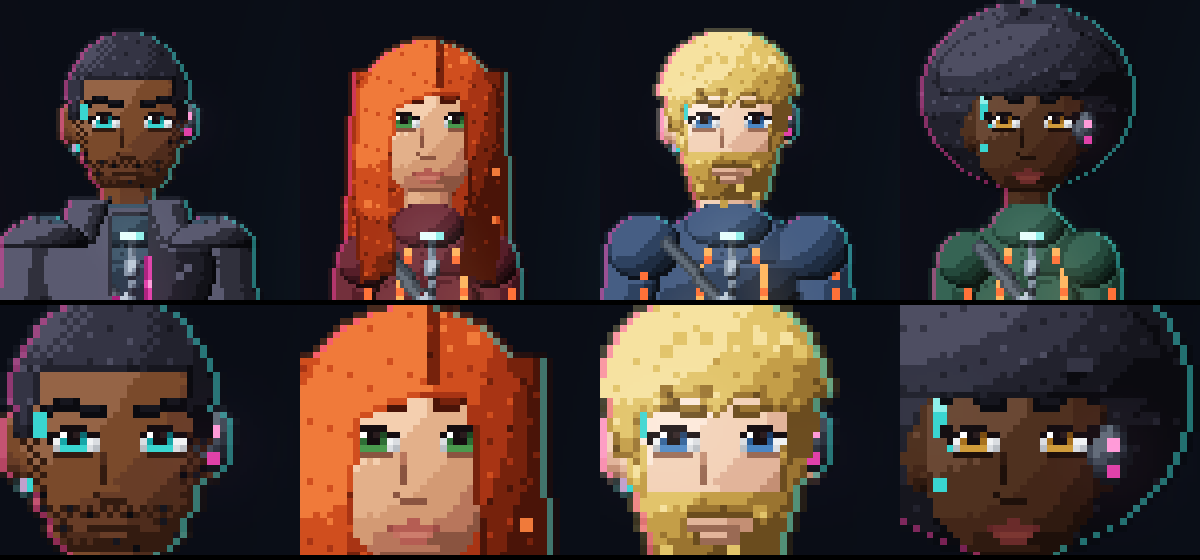
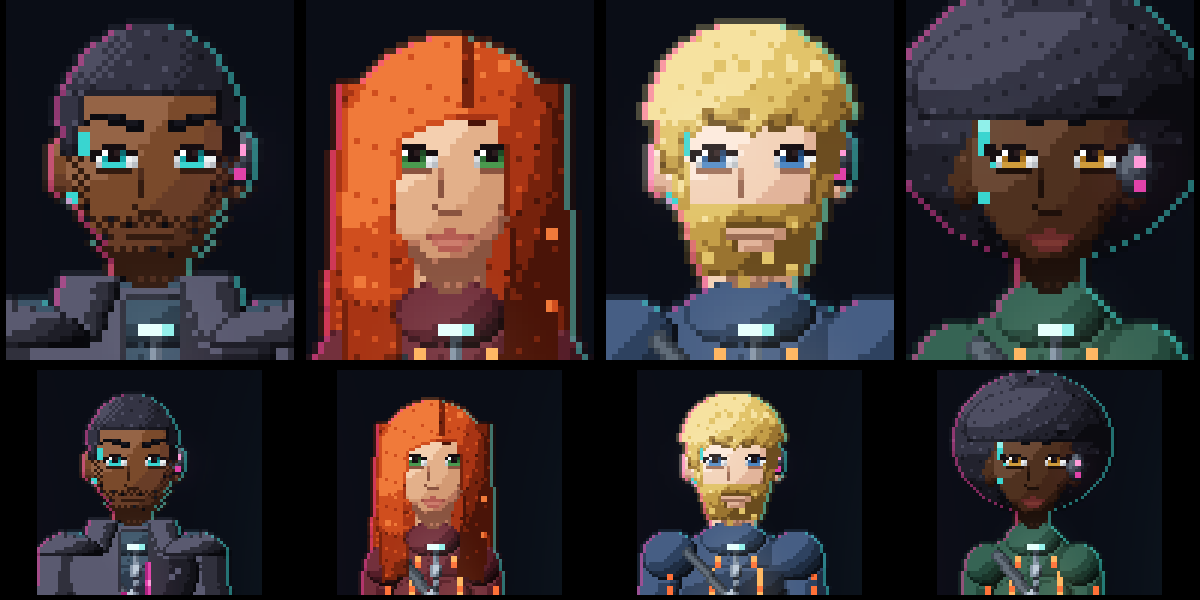
Pixel art: cabeça em formato de rosto (maxilar afinando, queixo redondo, sombra no pescoço), sobrancelhas mais finas
Claude-Session: https://claude.ai/code/session_017MAjsVPUWpuwu7BGbmoDsb

diff --git a/art/pixel/character5.py b/art/pixel/character5.py
@@ -254,12 +254,14 @@ def face_v3(r, blink=False):
             X = x0 + k
             t = (X - inn) * (-side) / 9.0 if side < 0 else (X - inn) / 9.0
             t = abs((X - inn) / 9.0)
-            lift = 1 if 0.25 < t < 0.75 else 0
-            if fem and 0.35 < t < 0.65:
-                lift = 2
-            P(X, by - lift, 'H', 1)
-            if t < (0.5 if fem else 0.8):
-                P(X, by - lift + 1, 'H', 0)
+            lift = 1 if 0.2 < t < 0.85 else 0      # sobe do nariz, pico a 2/3, cai na ponta
+            if 0.45 < t < 0.75:
+                lift = 2 if fem else 1
+            if t > 0.95:
+                lift = 0
+            P(X, by - 1 - lift, 'H', 1)
+            if t < (0.25 if fem else 0.55):
+                P(X, by - lift, 'H', 0)
     # nariz: sombra de um lado, ponta com luz, narinas
     nx = 96
     for Y in range(ey + 2, ey + 7):
@@ -309,6 +311,64 @@ def stubble_v3(r):
     return L
 
 
+def head_v3(r):
+    """Cabeça com formato de rosto humano: testa redonda, maçãs na altura dos olhos e
+    maxilar que afina em curva até um queixo arredondado (mais estreito na mulher)."""
+    from engine import Hi, SCALE as S
+    L = Part()
+    hx, hy, rx, ry = r['head']
+    fem = r['female']
+    cy = r['chin'][1] + 0.4
+    cw = 2.3 if fem else 3.1          # meia-largura do queixo
+    p = 1.25 if fem else 1.7          # quanto o maxilar segura a largura antes de afinar
+    top = hy - ry
+    yc = hy + 1.5                     # linha mais larga (maçãs do rosto)
+    M = np.zeros((L.h, L.w), bool)
+    for Y in range(L.h):
+        y = (Y + 0.5) / S
+        if y < top or y > cy:
+            continue
+        if y <= yc:
+            w = (rx + 0.1) * np.sqrt(max(0.0, 1 - ((yc - y) / (yc - top)) ** 2))
+        else:
+            t = (y - yc) / (cy - yc)
+            w = cw + (rx + 0.1 - cw) * (1 - t ** p)
+            rr = 1.6                  # arredonda a ponta do queixo
+            if y > cy - rr:
+                w = min(w, cw * np.sqrt(max(0.0, 1 - ((y - (cy - rr)) / rr) ** 2)) + 0.3)
+        xs = (np.arange(L.w) + 0.5) / S
+        M[Y] = np.abs(xs - hx) <= w
+    face = Hi(M)
+    for ex in (hx - rx + 0.1, hx + rx - 0.1):   # orelhas
+        L.part(); ell(L, ex, hy + 2.0, 1.4, 2.4, 'S', bias=-0.5, spread=2.4, dither=0.16)
+    L.part(); L.ellipsoid(face, hx - 0.6, hy, rx + 0.6, ry + 1.6, 'S', bias=0.15, spread=2.5, dither=0.18)
+    # sombra suave sob a maçã do rosto (lado da sombra) e luz na maçã do lado da luz
+    V = raw(L.lvl); Mt = raw(L.mat)
+    for Y in range(int((hy + 4) * S), int((hy + 6.5) * S)):
+        for X in range(int((hx + rx - 2.6) * S), int((hx + rx - 0.6) * S)):
+            if Mt[Y, X] == 'S' and (X + Y) % 2 == 0 and V[Y, X] > 0:
+                V[Y, X] -= 1
+    # sombra embaixo do queixo
+    for X in range(L.w):
+        col = np.where(M[:, X])[0]
+        if len(col):
+            V[col[-1], X] = max(0, V[col[-1], X] - 1)
+    L.seams()
+    # sombra que o queixo projeta no pescoço: separa o rosto do pescoço
+    nr = r['neck'][2] + 0.6
+    for X in range(L.w):
+        x = (X + 0.5) / S
+        if abs(x - hx) > nr:
+            continue
+        col = np.where(M[:, X])[0]
+        y0 = col[-1] + 1 if len(col) else int(cy * S)
+        depth = int(round((2.4 - 1.2 * (abs(x - hx) / nr) ** 2) * S))
+        for Y in range(y0, min(L.h, y0 + depth)):
+            Mt[Y, X] = 'S'
+            V[Y, X] = 0 if Y - y0 < depth * 0.6 or (X + Y) % 2 else 1
+    return L
+
+
 def build():
     l3 = c3.build()
     json.dump(l3, open('layers3.json', 'w'), separators=(',', ':'))
@@ -330,6 +390,7 @@ def build():
             layers[k] = dict(px=tmp.encode(), part=v['part'])
     for g, r in RIG.items():
         put(f'detalhe_{g}', details(r), 'body')
+        put(f'cabeca_{g}', head_v3(r), 'head')
         put(f'rosto_{g}', face_v3(r), 'head')
         put(f'rosto_{g}_piscar', face_v3(r, True), 'head')
         put(f'barba_1_{g}', stubble_v3(r), 'head')
